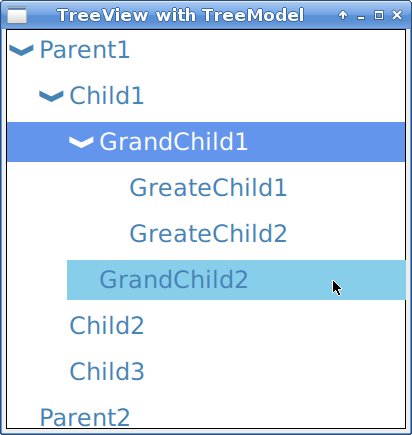
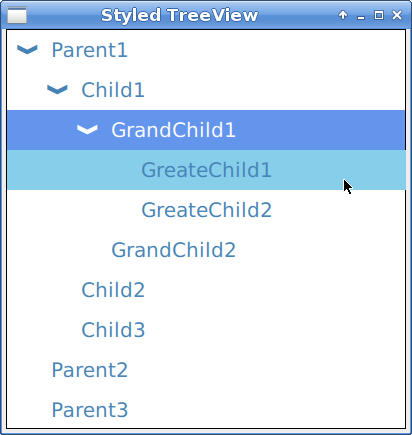
Updated sample images

diff --git a/examples/StyledTreeView/main.qml b/examples/StyledTreeView/main.qml
@@ -35,7 +35,7 @@ Window {
                 rowHeight: 40
                 rowPadding: 30
                 rowSpacing: 12
-                font.pixelSize: 24
+                font.pixelSize: 20
 
                 onCurrentIndexChanged: console.log("current index is (row=" + currentIndex.row + ", depth=" + model.depth(currentIndex) + ")")
                 onCurrentDataChanged: console.log("current data is " + currentData)
